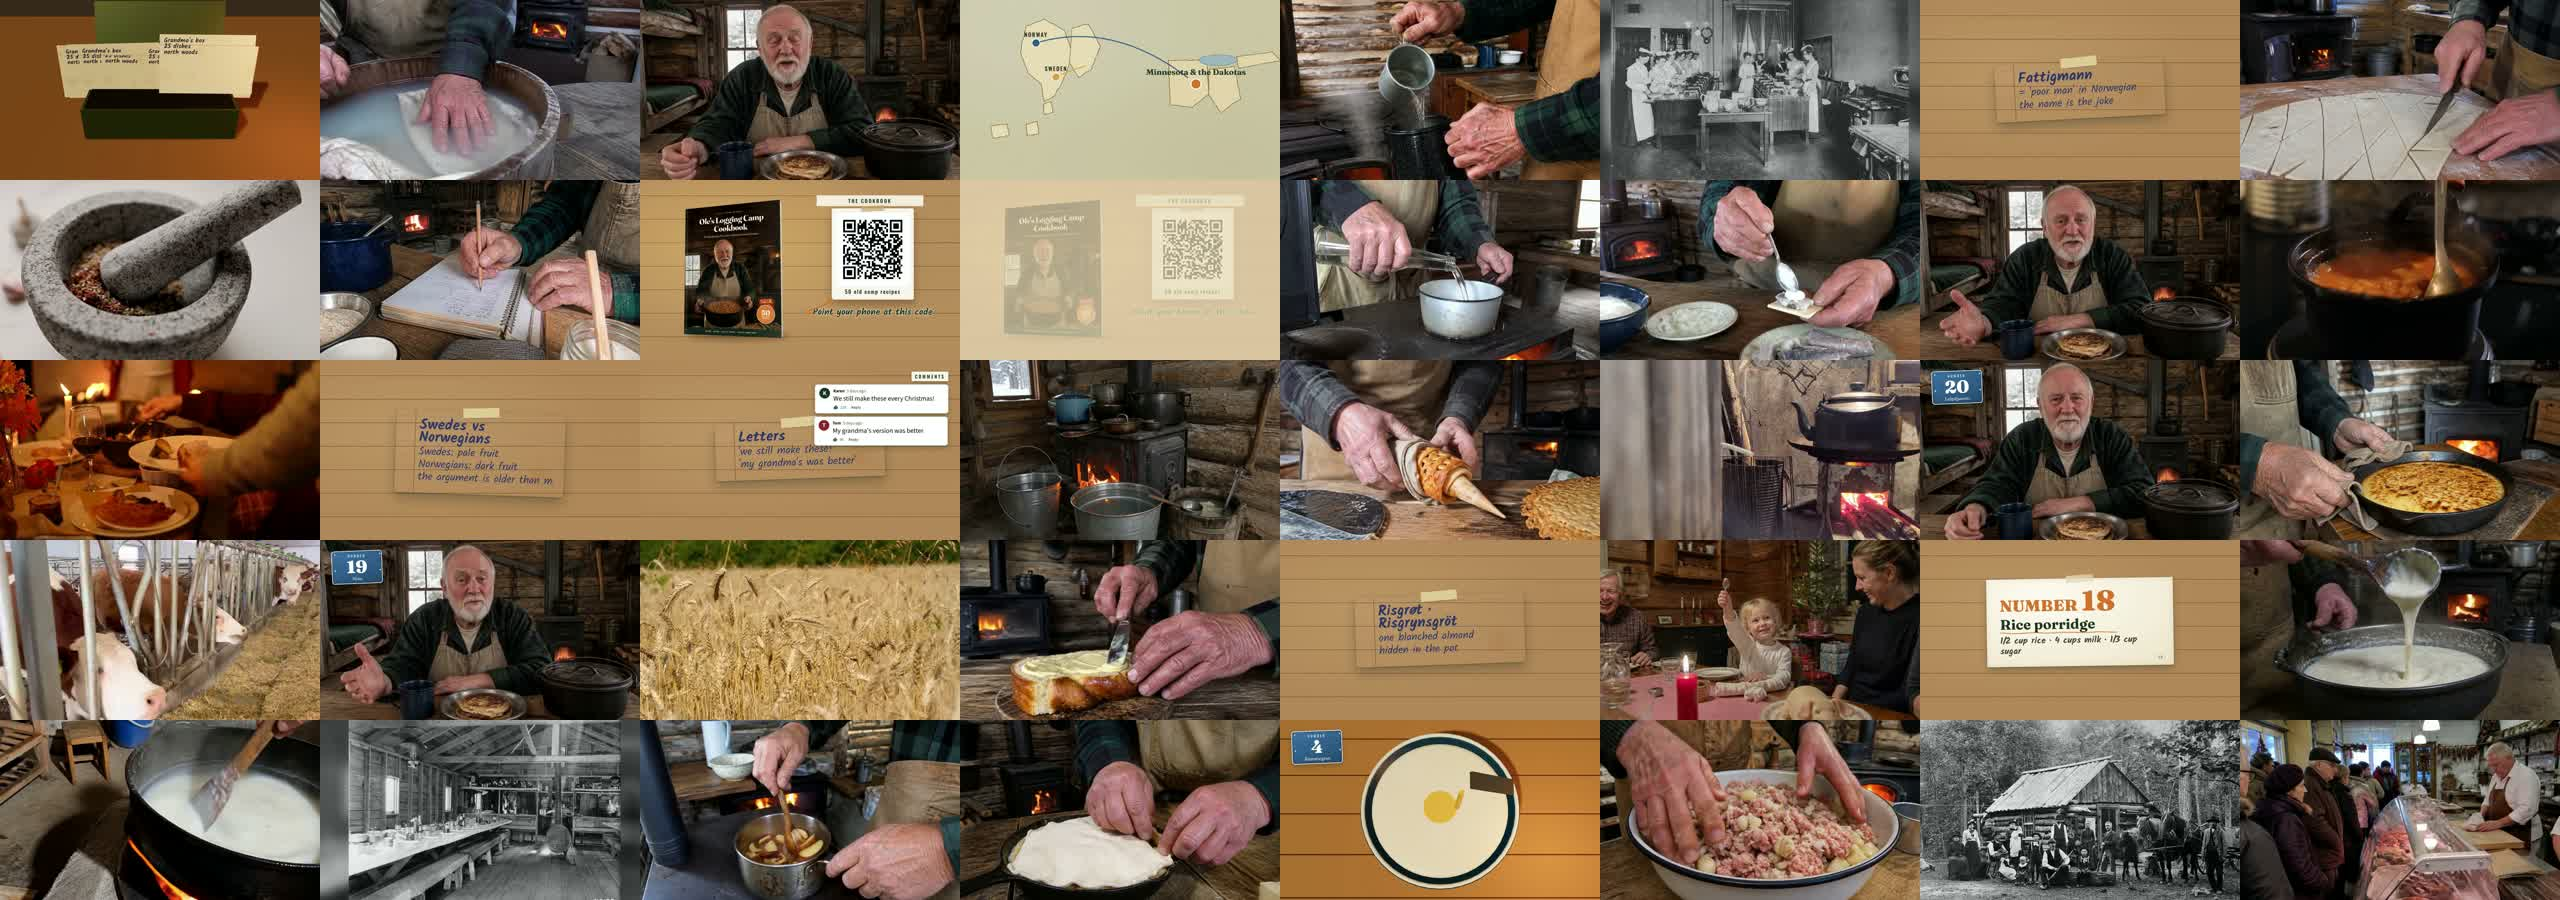
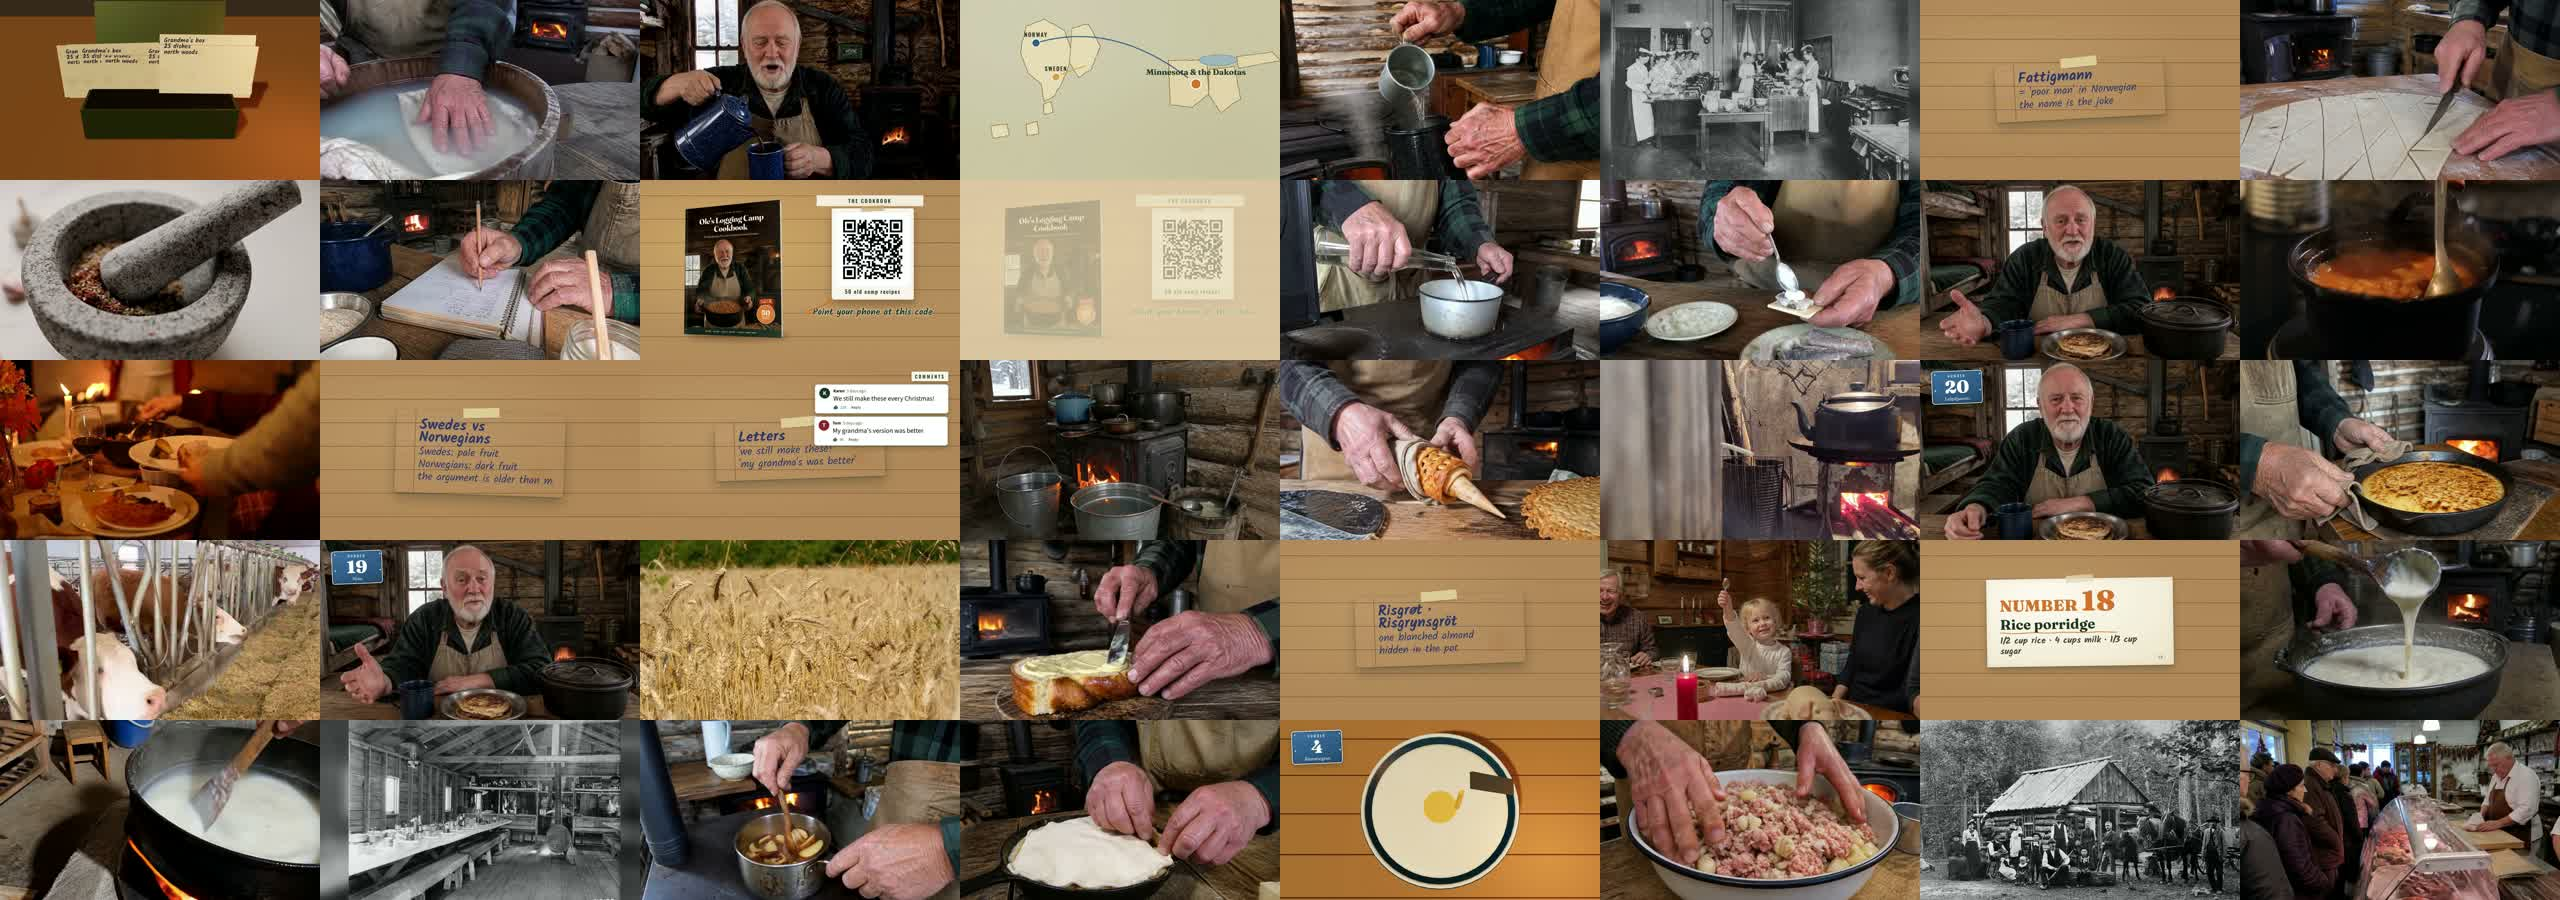
olcabin: AUDITOR.md render final (m1+m3)

Changed region(s): [[0.25, 0.0, 0.375, 0.2178]]

diff --git a/AUDITOR.md b/AUDITOR.md
@@ -1,4 +1,4 @@
-# AUDITOR olcabin — MP4 FINAL (render 2 del farm, run tras `528efd6`)
+# AUDITOR olcabin — MP4 FINAL (render 3 del farm, commit `2f351a3`, hablados m1+m3 reales, resto avatar de repuesto)
 Archivo: `C:/rtmp_olcabin/olcabin_final.mp4` (675 MB, reencode `entrega.sh` -bf 0). Comando: `PYTHONIOENCODING=utf-8 python vlog/olcabin/auditor.py <mp4>` → **✅ todas las compuertas medidas en verde** (`C:/rtmp_olcabin/auditor2.out`).
 
 | Compuerta | Medido | Resultado |
@@ -9,18 +9,18 @@ Archivo: `C:/rtmp_olcabin/olcabin_final.mp4` (675 MB, reencode `entrega.sh` -bf 
 | Loudness | -16,0 LUFS | ✅ |
 | Audio == video | 1161,433 s == 1161,433 s | ✅ |
 | Sync vs máster (4 puntos: 30, 383, 767, 1121 s) | lag 0 ms en los 4, correlación 0,999-1,000 | ✅ |
-| Minuto 1 | 25 cortes (scene>0,3) · 0 silencios (silencedetect -32 dB / 0,3 s) | ✅ |
+| Minuto 1 | 26 cortes (scene>0,3) · 0 silencios (silencedetect -32 dB / 0,3 s) | ✅ |
 | Negros | 0 tramos | ✅ |
 | QR legible con cv2 en el CUADRO RENDEREADO (3 cuadros del CTA) | `https://ole-camp-cookbook.vercel.app/?src=ole-olcabin` ×3 | ✅ |
-| Avatar % | 19,5 % (incl. repuesto de los hablados m2-m6) | — |
-| Real % (stock + archivo PD) | 26,3 % (del timeline; = lo renderizado, 0 placeholders) | ✅ ≥25 |
+| Avatar % | 19,1 % (incl. repuesto de m2, m4, m5, m6) | — |
+| Real % (stock + archivo PD) | 27,4 % (del timeline; = lo renderizado, 0 placeholders) | ✅ ≥25 |
 | Placeholders | 0 | ✅ |
-| Hablados agnes 2.5 | 1 de 6 (m1) — 0,3 % de cuadros | pendiente |
+| Hablados agnes 2.5 | 2 de 6 (m1, m3) — 0,6 % de cuadros | m2/m4/m5/m6 → v2 |
 
 Control positivo: el QR se decodificó en los 3 cuadros y el URL es el de la guía (`?src=ole-olcabin`); las compuertas de silencio y cortes se probaron primero en el borrador (2 silencios reales antes de subir el ambiente, 0 después).
 
 ## Hojas de contacto (MIRADAS)
-`GATE3_hoja_min1.jpg` (minuto 1, cada 2 s) · `GATE3_hoja_0-400s.jpg` · `GATE3_hoja_400-800s.jpg` · `GATE3_hoja_800-1160s.jpg` (cada 10 s) · `out/auditor/cada30.jpg`. Hallazgos ya corregidos en este render: stock fuera de tema (salteado de zanahorias en bannock/kraut) retirado; tarjetas manuscritas agrandadas; "Number four/one" con 3D en vez de tabla vacía; texto del CTA acortado. Hallazgos que quedan (no bloquean): (1) el avatar repite el mismo encuadre en todas sus ventanas (una sola foto de referencia); (2) el primer cuadro del libro real entra "cayendo" y por 4-8 cuadros se ve la mesa sola (transición del componente); (3) dos planos de stock son aproximados (horno moderno en `st_oven_dial`, sartén de manzana).
+`GATE3_hoja_min1.jpg` (minuto 1, cada 2 s) · `GATE3_hoja_0-400s.jpg` · `GATE3_hoja_400-800s.jpg` · `GATE3_hoja_800-1160s.jpg` (cada 10 s) · `out/auditor/cada30.jpg`. Hallazgos ya corregidos en este render: stock fuera de tema (salteado de zanahorias en bannock/kraut) retirado; tarjetas manuscritas agrandadas; "Number four/one" con 3D en vez de tabla vacía; texto del CTA acortado. Hallazgos que quedan (no bloquean): (1) el avatar repite el mismo encuadre en todas sus ventanas (una sola foto de referencia); (2) [corregido] la página del libro ya está desde el cuadro 0; (3) [corregido] los dos planos de stock aproximados se reemplazaron.
 
 ## Pendientes conocidos
 - Re-render completo cuando lleguen los hablados m2-m6 (m2 salió con palabras cambiadas y está re-encolado; m3-m6 en la cola del orquestador).
